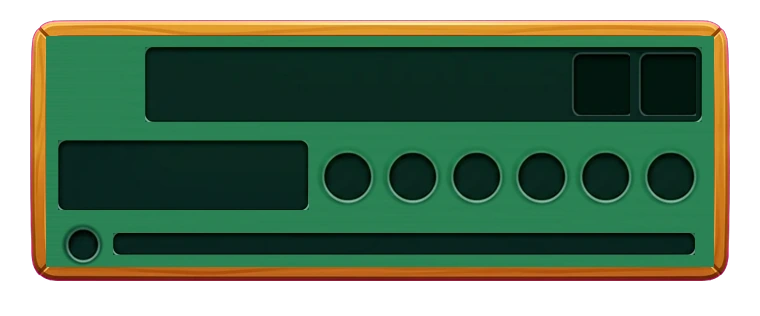
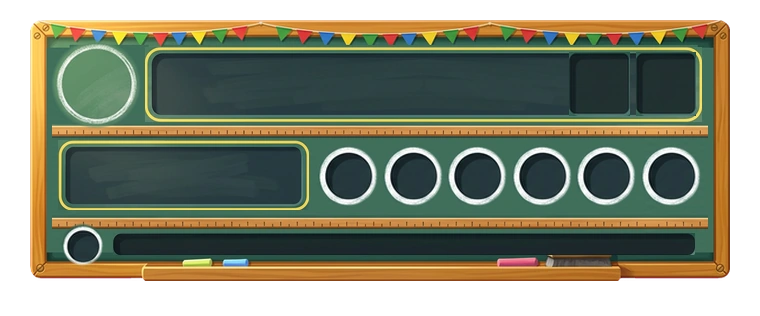
1.d Schoolyard: new chalkboard board (house bunting, ruler rails, chalk ledge, chalk ring behind the crest — Figma 360:191) on the locked layout
Claude-Session: https://claude.ai/code/session_01EnXvJ8XPeyqCUAaLS3ewZZ

diff --git a/art/ui/hud_lock/build_locked_boards.py b/art/ui/hud_lock/build_locked_boards.py
@@ -49,6 +49,9 @@ def frac_hud():
 
 # ---- per-board source measurements (original px, 760 wide). slots = the board's own HUD fractions ----
 B = {
+ 'school2': dict(k=.921, Ri=(18, 30, 742, 284), mat=(108, 113, 200, 560), amp=.8, badgeRing=(86, 70, 37), deco=[('rails', [(114, 128, 200, 500), (212, 226, 200, 500)], (52, 708))],
+   chase=[0.1974, 0.0421, 0.9474, 0.1395], wk=[0.7763, 0.0579, 0.8421, 0.1263], score=[0.0526, 0.1776, 0.4105, 0.2711],
+   sock=[0.4697, 0.2237, 0.0276], badge=[0.0632, 0.0421, 0.1632, 0.1421], eIcon=[0.1105, 0.3316, 0.0171], eBar=[0.1658, 0.3132, 0.8526, 0.35]),
  'rooftop2': dict(k=.921, underLights=True, Ri=(52, 72, 722, 296), mat=(127, 133, 400, 560), badgeRing=(118, 84, 48), deco=[('rails', [(135, 147, 300, 500), (233, 245, 300, 500)], (55, 705))],
    chase=[0.2895, 0.0566, 0.9382, 0.1632], wk=[0.7566, 0.0724, 0.8276, 0.1461], score=[0.0566, 0.2053, 0.2632, 0.3],
    sock=[0.3447, 0.2513, 0.0355], badge=[0.0921, 0.0474, 0.2184, 0.1737], eIcon=[0.1592, 0.3579, 0.0224], eBar=[0.3053, 0.3368, 0.9368, 0.3763]),
